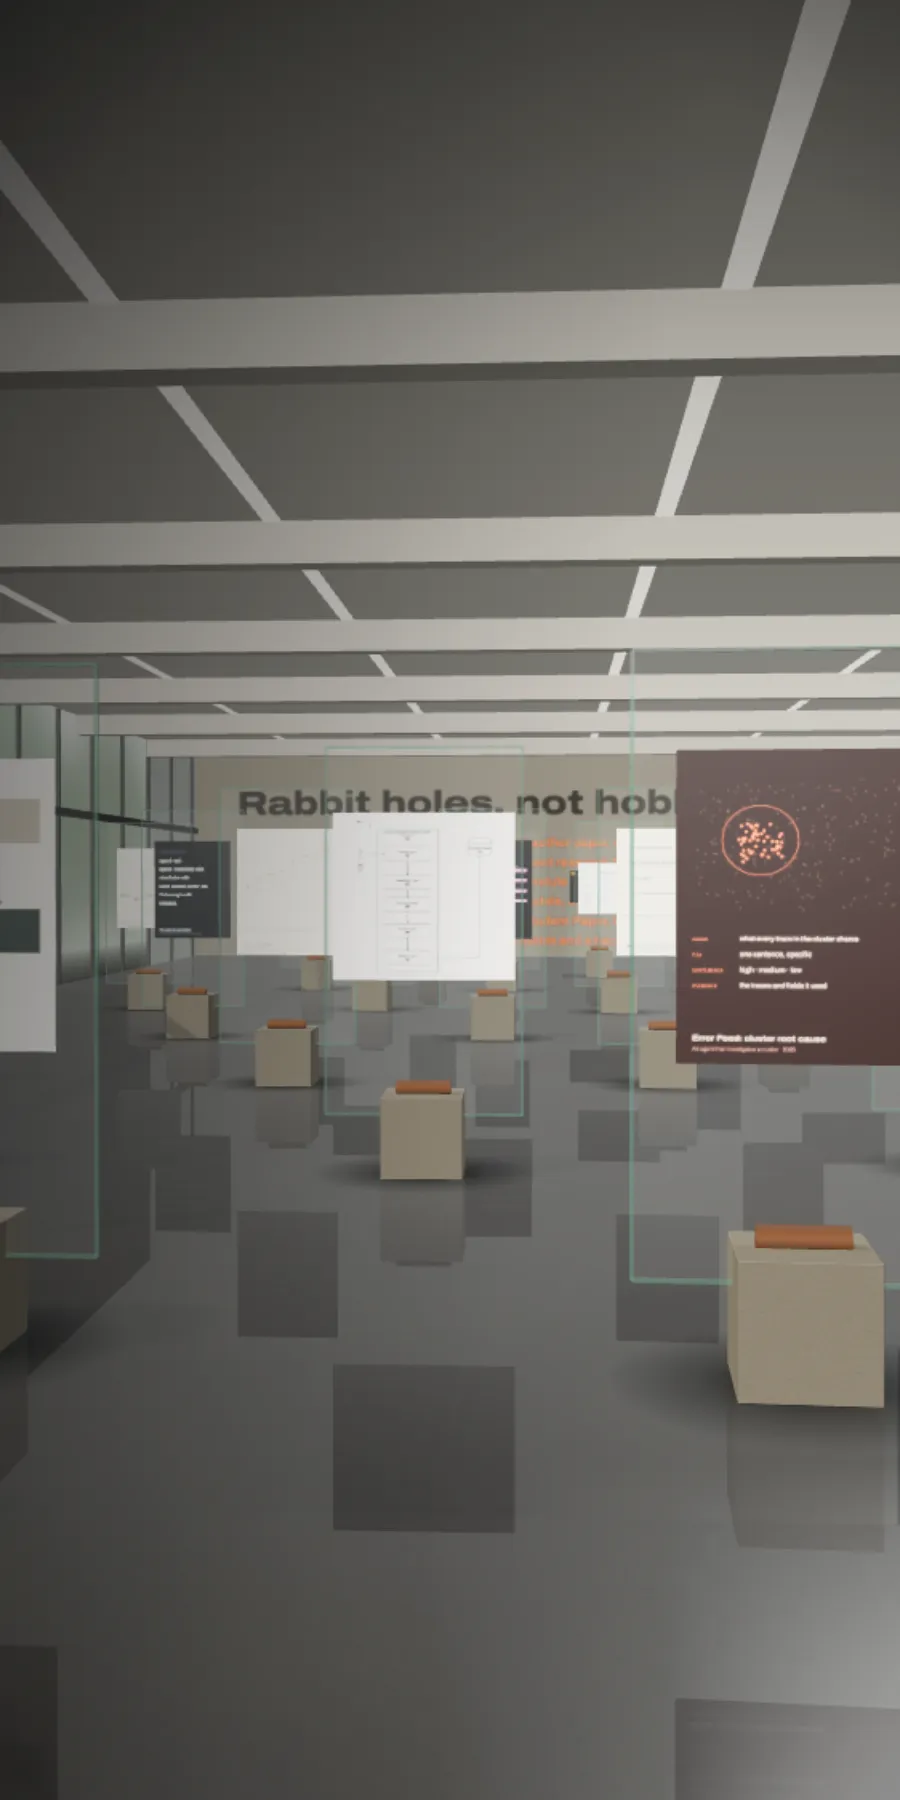
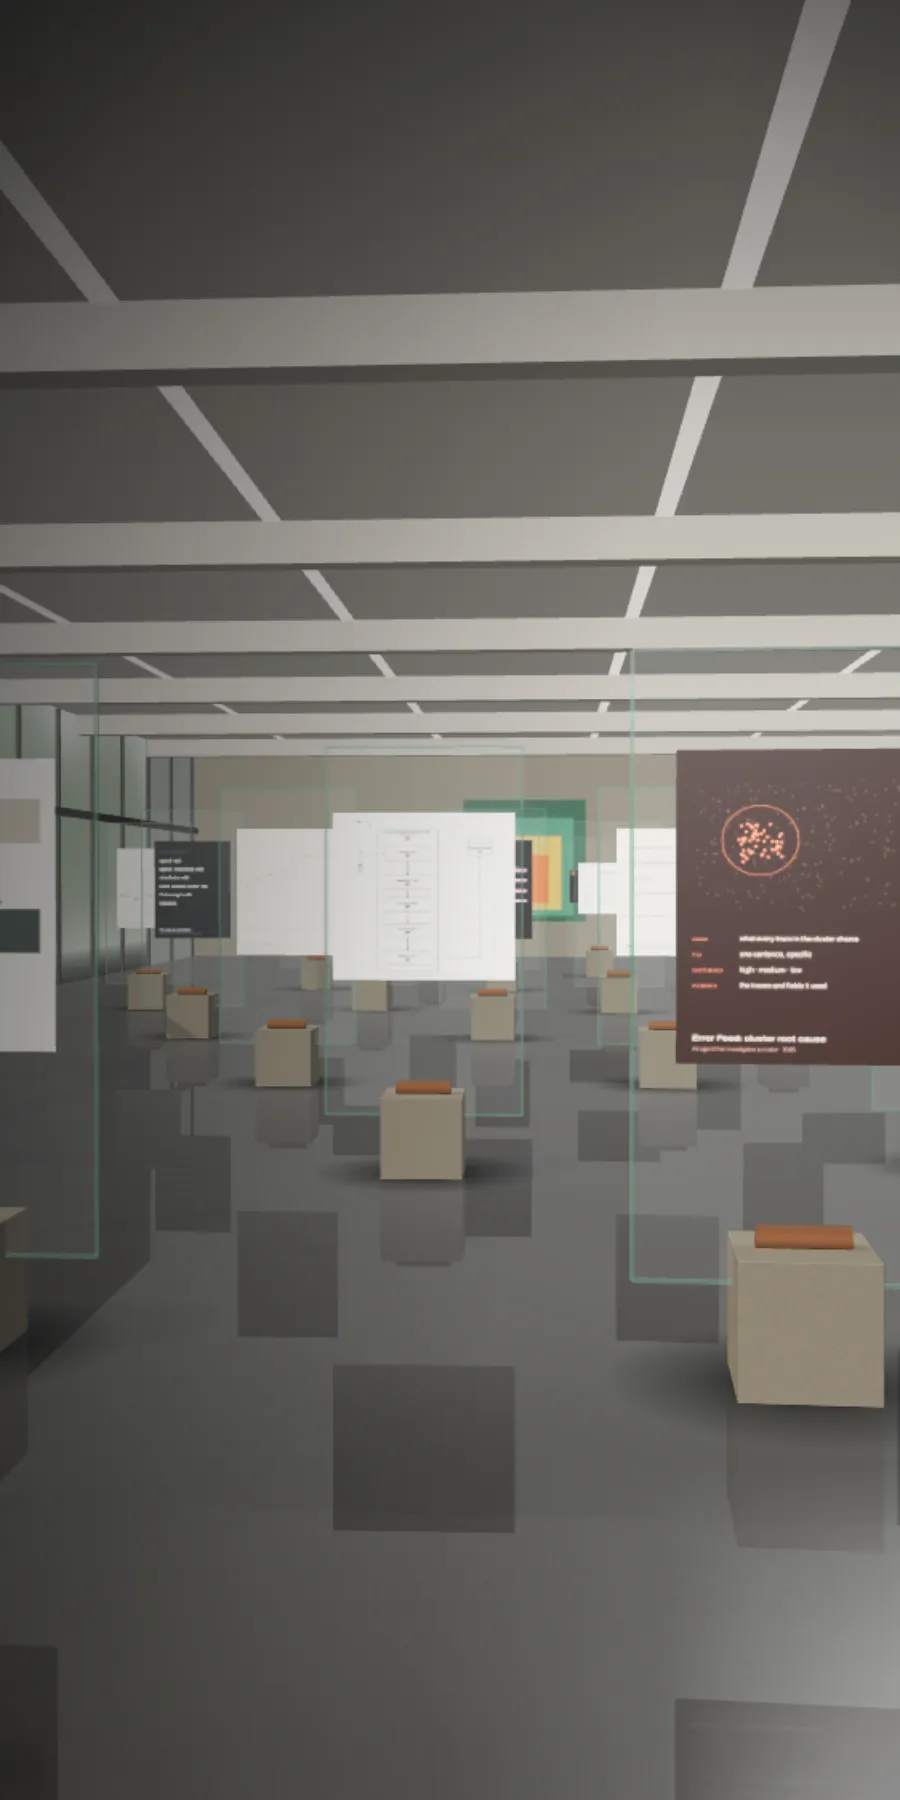
feat(hall): art on the end walls, no words
Kartik: the walls kept failing because they were text. Both end walls now
carry canvases of nested squares after Albers's Homage to the Square (each
square inside the last and a little low, pulling the eye in and down: a
rabbit hole with no words): one 2.6 m canvas closing the aisle, three by
the door. Real 4 cm canvases off the concrete, flat colour with a faint
brush grain; hidden as the roof lifts so they don't edge the plan.
Removes the painted lists and the walls data plumbing.

Changed region(s): [[0.2489, 0.4356, 0.7467, 0.5289]]

diff --git a/site/components/hall/walls.ts b/site/components/hall/walls.ts
@@ -1,79 +1,55 @@
-// The two painted end walls, drawn onto canvases the engine hangs on the concrete. Paint, not
-// signage: flat colour and big type, nothing thin enough to shimmer as the camera moves.
-// Coordinates are metres of wall (m = pixels per metre); both walls are 14.2 × 4.3 m.
-import type { Walls } from '@/content/hall';
+// The art on the hall's end walls: canvases of nested squares, after Josef Albers's Homage to the
+// Square. Each square sits inside the last and a little low, so the eye is pulled in and down: a
+// rabbit hole with no words. Flat colour with a faint brush grain, nothing fine enough to shimmer.
 
-const WALL = 14.2;
-const INK = '#1e1b17',
-  INK_2 = '#4f483e',
-  CREAM = '#fff8ec',
-  TOMATO = '#e2552b';
+const DEEP = '#264e41',
+  GREEN = '#3d7a64',
+  OCHRE = '#d8a24a',
+  TOMATO = '#e2552b',
+  CREAM = '#f3e9d6',
+  SAND = '#c9b28c',
+  BASALT = '#2a2926';
+
+/** Outermost colour first. */
+export const PAINTINGS = {
+  back: [DEEP, GREEN, OCHRE, TOMATO],
+  left: [CREAM, SAND, OCHRE, TOMATO],
+  middle: [TOMATO, OCHRE, CREAM, GREEN],
+  right: [BASALT, DEEP, GREEN, CREAM],
+} as const;
+
 /**
- * The back wall: "Rabbit holes, not hobbies." and each field with what came out of it, the depth in
- * my colour. Two columns of big type and nothing else: no rules or dots to shimmer at the far end.
+ * Paints one canvas on a square context of side n. Albers's proportions on a ten-unit grid: each
+ * square is two units smaller, one unit in from the sides, a unit and a half from the top and half a
+ * unit from the bottom of the one outside it.
  */
-export function drawHoles(g: CanvasRenderingContext2D, W: number, walls: Walls, font: string) {
-  const m = W / WALL;
-  const x0 = 0.9 * m,
-    col = 6.4 * m;
-  g.textBaseline = 'alphabetic';
-  g.fillStyle = INK;
-  g.font = `800 expanded ${0.72 * m}px ${font}`;
-  g.fillText('Rabbit holes, not hobbies.', x0, 1.25 * m);
-  const pitch = 0.42 * m,
-    y0 = 1.95 * m;
-  // Both columns share one size, stepped down only if the longest line wouldn't fit the wall.
-  let size = 0.27 * m;
-  const widest = (weight: string, texts: string[]) => ((g.font = `${weight} ${size}px ${font}`), Math.max(...texts.map(t => g.measureText(t).width)));
-  const fits = () =>
-    widest(
-      '800 semi-expanded',
-      walls.holes.map(h => h[0]),
-    ) <=
-      col - x0 - 0.3 * m &&
-    widest(
-      '700',
-      walls.holes.map(h => h[1]),
-    ) <=
-      W - col - 0.6 * m;
-  while (size > 0.18 * m && !fits()) size *= 0.95;
-  walls.holes.forEach(([field, depth], i) => {
-    const y = y0 + i * pitch;
-    g.fillStyle = INK;
-    g.font = `800 semi-expanded ${size}px ${font}`;
-    g.fillText(field, x0, y);
-    g.fillStyle = TOMATO;
-    g.font = `700 ${size}px ${font}`;
-    g.fillText(depth, col, y);
+export function drawHomage(g: CanvasRenderingContext2D, n: number, colours: readonly string[], seed: number) {
+  let s = seed;
+  const rand = () => (s = (s * 1664525 + 1013904223) >>> 0) / 4294967296;
+  const u = n / 10;
+  colours.forEach((c, k) => {
+    const side = (10 - 2 * k) * u,
+      x = k * u,
+      y = 1.5 * k * u;
+    g.fillStyle = c;
+    g.fillRect(x, y, side, side);
+    // Brush grain: short, soft, low-contrast strokes, clipped to the square.
+    g.save();
+    g.beginPath();
+    g.rect(x, y, side, side);
+    g.clip();
+    g.lineCap = 'round';
+    for (let i = 0; i < 260 * (side / n); i++) {
+      g.strokeStyle = rand() < 0.5 ? 'rgba(255,255,255,.035)' : 'rgba(0,0,0,.035)';
+      g.lineWidth = (0.004 + rand() * 0.01) * n;
+      const px = x + rand() * side,
+        py = y + rand() * side,
+        len = (0.03 + rand() * 0.09) * n;
+      g.beginPath();
+      g.moveTo(px, py);
+      g.lineTo(px + len, py + (rand() - 0.5) * 0.01 * n);
+      g.stroke();
+    }
+    g.restore();
   });
-  if (walls.fun.length) {
-    g.fillStyle = INK_2;
-    g.font = `600 ${0.27 * m}px ${font}`;
-    g.fillText(`Off the clock: ${new Intl.ListFormat('en-GB').format(walls.fun)}.`, x0, y0 + walls.holes.length * pitch + 0.2 * m);
-  }
-}
-
-/** The exit wall: thanks for walking through, and the email on a tomato pill. No names; they're on the labels. */
-export function drawThanks(g: CanvasRenderingContext2D, W: number, email: string, font: string) {
-  const m = W / WALL;
-  g.fillStyle = TOMATO;
-  g.fillRect(0, 0, W, 0.2 * m);
-  g.textBaseline = 'alphabetic';
-  g.fillStyle = INK;
-  g.font = `800 semi-expanded ${0.75 * m}px ${font}`;
-  g.fillText('Thanks for walking through.', 1.1 * m, 1.45 * m);
-  g.fillStyle = '#3e372e';
-  g.font = `600 ${0.38 * m}px ${font}`;
-  g.fillText('Everyone I built these with is on the labels. Thank you, too.', 1.13 * m, 2.2 * m);
-  const pill = `Got a rabbit hole for me? → ${email}`;
-  g.font = `800 semi-expanded ${0.35 * m}px ${font}`;
-  const pw = g.measureText(pill).width + 0.44 * m,
-    ph = 0.35 * m + 0.26 * m;
-  g.fillStyle = TOMATO;
-  g.beginPath();
-  g.roundRect(1.1 * m, 2.8 * m, pw, ph, ph / 2);
-  g.fill();
-  g.fillStyle = CREAM;
-  g.textBaseline = 'middle';
-  g.fillText(pill, 1.1 * m + 0.22 * m, 2.8 * m + ph / 2 + 0.02 * m);
 }

diff --git a/site/components/hall/engine.ts b/site/components/hall/engine.ts
@@ -8,9 +8,9 @@ import { RenderPass } from 'three/examples/jsm/postprocessing/RenderPass.js';
 import { GTAOPass } from 'three/examples/jsm/postprocessing/GTAOPass.js';
 import { OutputPass } from 'three/examples/jsm/postprocessing/OutputPass.js';
 import { RoundedBoxGeometry } from 'three/examples/jsm/geometries/RoundedBoxGeometry.js';
-import type { Exhibit, Walls } from '@/content/hall';
+import type { Exhibit } from '@/content/hall';
 import { AISLE, EYE, ROW, layout, planFrame } from './layout';
-import { drawHoles, drawThanks } from './walls';
+import { drawHomage, PAINTINGS } from './walls';
 
 export type HallEvents = {
   hover: (id: string | null, x: number, y: number) => void;
@@ -27,8 +27,6 @@ export type HallEvents = {
 export type HallOptions = {
   rows: Exhibit[][];
   years: string[];
-  /** What the two end walls say. */
-  walls: Walls;
   font: string;
   reduced: boolean;
   mobile: boolean;
@@ -328,38 +326,33 @@ export async function createHall(container: HTMLElement, o: HallOptions): Promis
   fwall.rotation.y = Math.PI;
   fwall.position.set(cx, plan.h / 2, plan.z0);
   scene.add(fwall);
-  // The end walls are painted: a lit, transparent plane a centimetre off the concrete, pulled forward
-  // in depth so it never fights it. The exit wall is in shade, so its paint gets the same lift as its concrete.
-  const pw = high ? 2560 : 1280,
-    ph = Math.round((pw * plan.h) / W);
-  // Everything painted on a wall fades with the roof as the crane rises: seen from above, the walls
+  // Paint on the walls (the row dates) fades with the roof as the crane rises: seen from above, the walls
   // are edge-on and their paint would sit around the plan as squashed slivers.
   const painted: THREE.MeshStandardMaterial[] = [];
-  const paint = (draw: (g: CanvasRenderingContext2D) => void, z: number, turned: boolean) => {
-    const map = keep(textTexture(pw, ph, draw));
-    const mat = keep(
-      new THREE.MeshStandardMaterial({
-        map,
-        transparent: true,
-        depthWrite: false,
-        roughness: 0.95,
-        polygonOffset: true,
-        polygonOffsetFactor: -2,
-        polygonOffsetUnits: -2,
-      }),
-    );
-    painted.push(mat);
-    if (turned) {
-      mat.emissive = frontMat.emissive;
-      mat.emissiveMap = map;
+  // Art on the end walls: stretched canvases of nested squares (walls.ts), 4 cm deep and a few
+  // centimetres off the concrete. One large one closes the aisle; three hang by the door. The door wall
+  // is in shade, so its canvases get the same lift as its concrete.
+  const canvases: THREE.Mesh[] = [];
+  const canvasEdge = keep(new THREE.MeshStandardMaterial({ color: 0xe9e2d4, roughness: 0.9 }));
+  const hang = (colours: readonly string[], side: number, x: number, y: number, z: number, byDoor: boolean, seed: number) => {
+    const n = (side > 2 ? 1024 : 512) / (high ? 1 : 2);
+    const map = keep(textTexture(n, n, g => drawHomage(g, n, colours, seed)));
+    const face = keep(new THREE.MeshStandardMaterial({ map, roughness: 0.85 }));
+    if (byDoor) {
+      face.emissive = frontMat.emissive;
+      face.emissiveMap = map;
     }
-    const mesh = new THREE.Mesh(keep(new THREE.PlaneGeometry(W, plan.h)), mat);
-    mesh.position.set(cx, plan.h / 2, z);
-    if (turned) mesh.rotation.y = Math.PI;
-    scene.add(mesh);
+    const art = new THREE.Mesh(keep(new THREE.BoxGeometry(side, side, 0.04)), [canvasEdge, canvasEdge, canvasEdge, canvasEdge, face, canvasEdge]);
+    art.position.set(x, y, z);
+    if (byDoor) art.rotation.y = Math.PI;
+    scene.add(art);
+    canvases.push(art);
   };
-  paint(g => drawHoles(g, pw, o.walls, o.font), plan.z1 + 0.01, false);
-  paint(g => drawThanks(g, pw, o.walls.email, o.font), plan.z0 - 0.01, true);
+  hang(PAINTINGS.back, 2.6, cx, 2.05, plan.z1 + 0.05, false, 7);
+  // By the door, left to right as you face it (+x is on your left when you turn round).
+  hang(PAINTINGS.left, 1.2, cx + 1.75, 2.0, plan.z0 - 0.05, true, 11);
+  hang(PAINTINGS.middle, 1.2, cx, 2.0, plan.z0 - 0.05, true, 13);
+  hang(PAINTINGS.right, 1.2, cx - 1.75, 2.0, plan.z0 - 0.05, true, 17);
 
   const skyMat = keep(new THREE.MeshBasicMaterial({ map: keep(skyTexture()), fog: false }));
   const sky = new THREE.Mesh(keep(new THREE.PlaneGeometry(D + 20, 9)), skyMat);
@@ -736,6 +729,7 @@ export async function createHall(container: HTMLElement, o: HallOptions): Promis
     const roof = 1 - sstep(0.02, 0.2, u);
     lifts.forEach(m => (m.opacity = roof));
     painted.forEach(m => (m.opacity = roof));
+    canvases.forEach(a => (a.visible = roof > 0.001));
     upper.visible = sky.visible = roof > 0.001;
     // The floor turns opaque over its reflection as the camera rises out of the angle that shows it.
     floorMat.opacity = reflect ? 0.84 + 0.16 * sstep(0.05, 0.35, u) : 1;

diff --git a/site/components/hall/Hall.tsx b/site/components/hall/Hall.tsx
@@ -2,7 +2,7 @@
 
 import Link from 'next/link';
 import { useEffect, useEffectEvent, useRef, useState } from 'react';
-import type { Exhibit, Walls } from '@/content/hall';
+import type { Exhibit } from '@/content/hall';
 import { useMotion } from '@/lib/motion';
 import type { HallController } from './engine';
 import { layout, planFrame, ROW, type Frame } from './layout';
@@ -13,14 +13,14 @@ import s from './Hall.module.css';
 const CRANE_END = 0.85;
 const clamp01 = (x: number) => Math.min(1, Math.max(0, x));
 
-type Props = { rows: Exhibit[][]; years: string[]; walls: Walls; name: string; intro: string; proof: string };
+type Props = { rows: Exhibit[][]; years: string[]; name: string; intro: string; proof: string };
 
 /**
  * The top of the home page: the WebGL hall under an HTML overlay. Everything readable here is HTML;
  * the canvas only reports where the visitor is and what they're looking at. Scrolling lifts the roof
  * off and cranes up to a drawn plan of the room; the catalogue follows.
  */
-export default function Hall({ rows, years, walls, name, intro, proof }: Props) {
+export default function Hall({ rows, years, name, intro, proof }: Props) {
   const exhibits = rows.flat();
   const hall = layout(rows);
   const section = useRef<HTMLElement>(null);
@@ -70,7 +70,6 @@ export default function Hall({ rows, years, walls, name, intro, proof }: Props) 
           ctl.current = await createHall(el, {
             rows,
             years,
-            walls,
             font,
             reduced: false,
             mobile,
@@ -131,7 +130,7 @@ export default function Hall({ rows, years, walls, name, intro, proof }: Props) 
       ctl.current?.dispose();
       ctl.current = null;
     };
-    // rows, years and walls are static page data; the engine is built once per visit.
+    // rows and years are static page data; the engine is built once per visit.
     // eslint-disable-next-line react-hooks/exhaustive-deps
   }, [reduced]);
 

diff --git a/site/content/hall.ts b/site/content/hall.ts
@@ -2,8 +2,6 @@ import { work } from './work';
 import { research } from './research';
 import { speaking } from './more';
 import { posts } from './writing';
-import { holes } from './holes';
-import { profile } from './profile';
 
 // Everything in the hall is derived from the content files, so a label can never disagree with its page.
 // Order is time: the front row is the newest work, the back wall the oldest.
@@ -144,13 +142,3 @@ export const rowYears = (row: Exhibit[]) => {
 };
 
 export const exhibitById = (id: string) => exhibits.find(e => e.id === id);
-
-// ——— the painted end walls ———
-
-/** The back wall paints the rabbit holes (field, then what came out of it); the exit wall says thanks. */
-export type Walls = { holes: [string, string][]; fun: string[]; email: string };
-export const walls: Walls = {
-  holes: holes.map(h => [h.field, h.depth]),
-  fun: profile.fun,
-  email: profile.email,
-};

diff --git a/site/app/page.tsx b/site/app/page.tsx
@@ -4,7 +4,7 @@ import Hall from '@/components/hall/Hall';
 import WorkIndex from '@/components/home/WorkIndex';
 import Strike from '@/components/home/Strike';
 import Holes from '@/components/home/Holes';
-import { rows, rowYears, walls } from '@/content/hall';
+import { rows, rowYears } from '@/content/hall';
 import { profile } from '@/content/profile';
 import { holes } from '@/content/holes';
 import { posts, splitTitle } from '@/content/writing';
@@ -23,7 +23,7 @@ export default function Home() {
       <SiteHeader tone="light" hideName />
       <main id="main">
         <div className="dark">
-          <Hall rows={rows} years={years} walls={walls} name={profile.fullName} intro={profile.wall} proof={profile.proof} />
+          <Hall rows={rows} years={years} name={profile.fullName} intro={profile.wall} proof={profile.proof} />
         </div>
 
         <div className={s.lit}>
